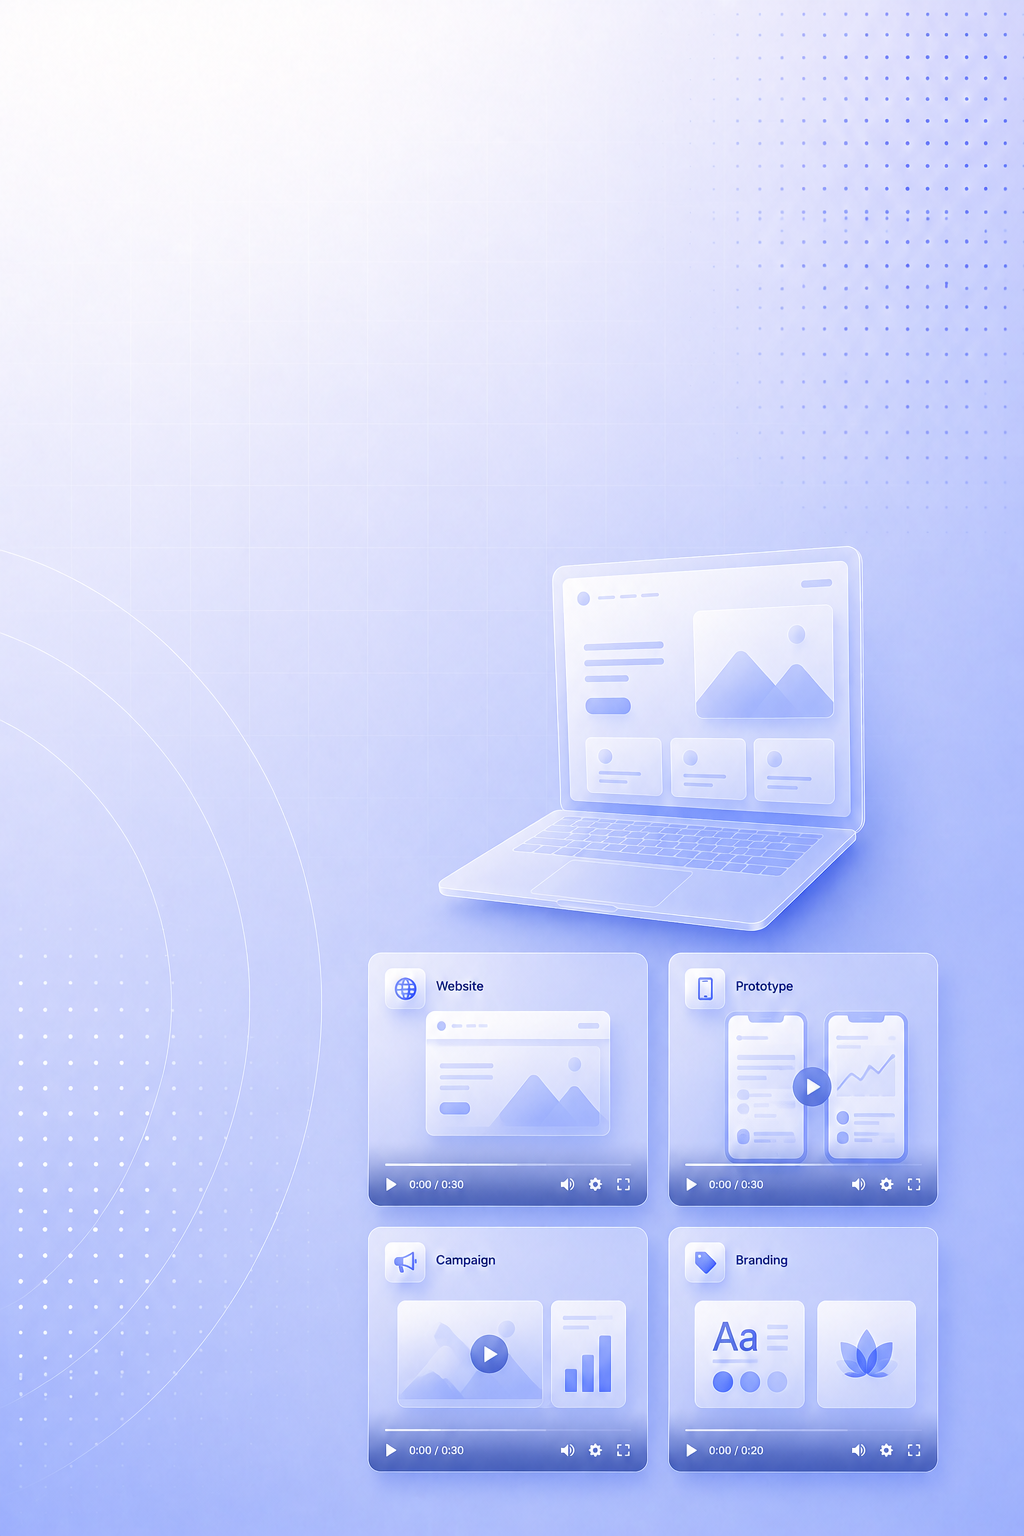
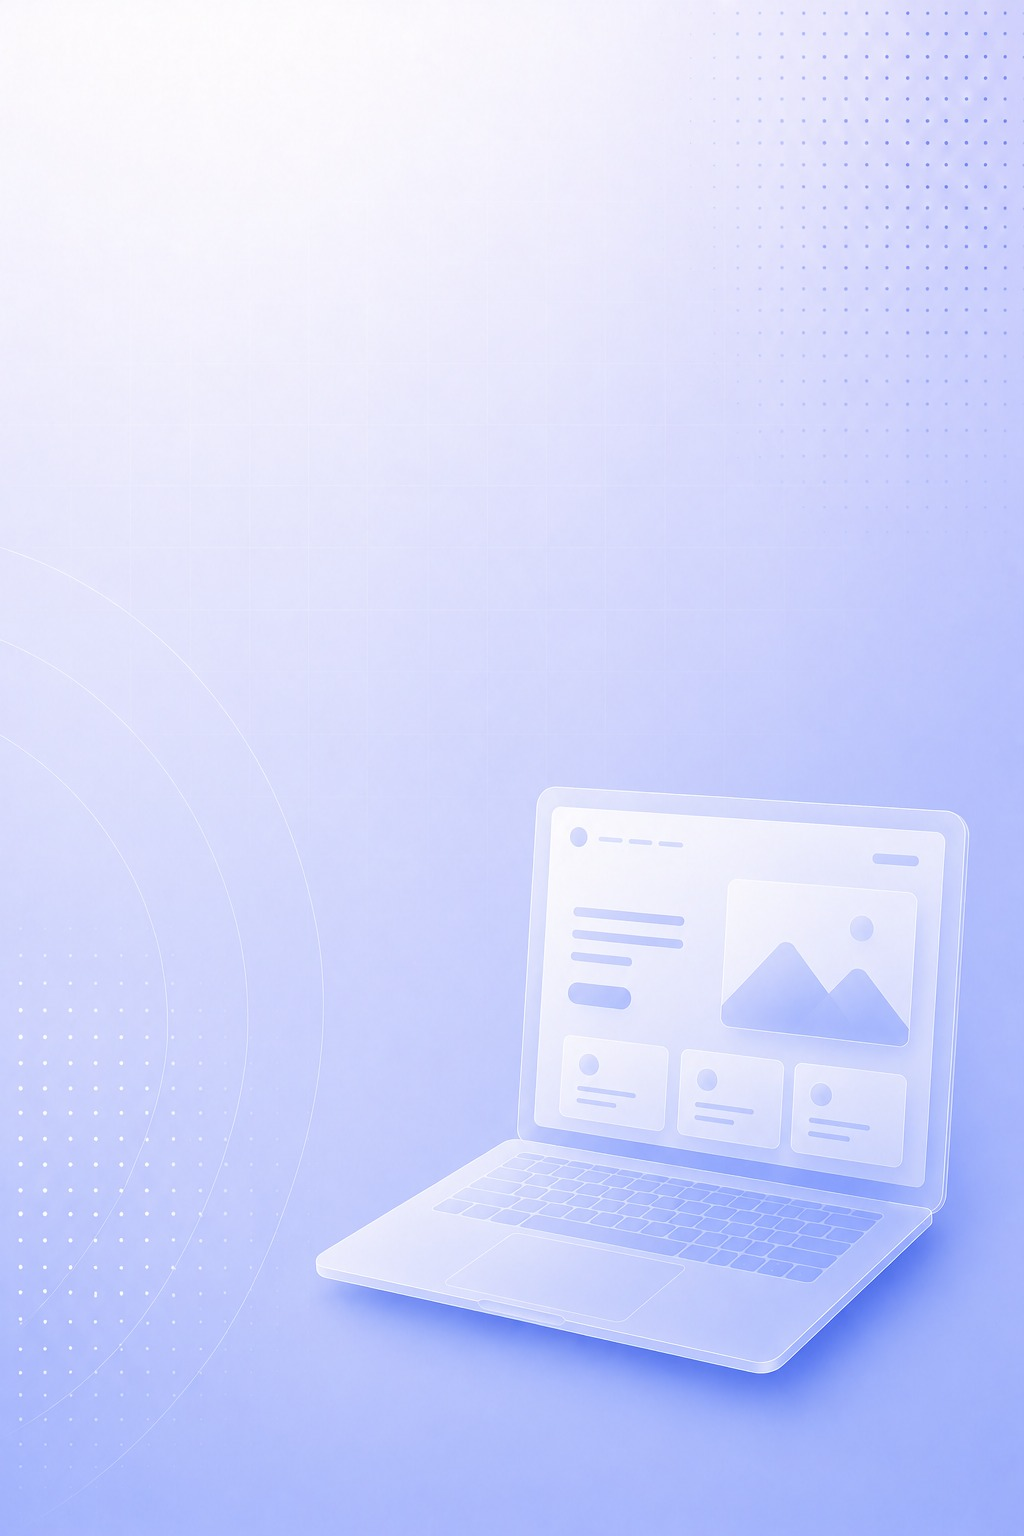
v 31

Changed region(s): [[0.3125, 0.3438, 0.9688, 0.9688]]

diff --git a/pages/Team/components/TeamMemberCard.tsx b/pages/Team/components/TeamMemberCard.tsx
@@ -34,10 +34,10 @@ const BLOCK_SIZE = {
 // block's edges without ever spilling outside the D. Tune per person if a
 // composition looks off; these don't affect the source images.
 const PERSON_POSITION: Record<string, { left: string; bottom: string; width: string; height: string }> = {
-  'Bindu Mohan': { left: '-11%', bottom: '5%', width: '100%', height: '270%' },
-  'Sneha Peri': { left: '-7%', bottom: '5%', width: '80%', height: '122%' },
-  'Yashas Niranjan': { left: '5%', bottom: '3%', width: '100%', height: '140%' },
-  'Sakshi Agarwal': { left: '-15%', bottom: '5%', width: '100%', height: '132%' },
+  'Bindu Mohan': { left: '-8%', bottom: '5%', width: '107%', height: '270%' },
+  'Sneha Peri': { left: '2%', bottom: '1%', width: '85%', height: '122%' },
+  'Yashas Niranjan': { left: '5%', bottom: '1%', width: '100%', height: '140%' },
+  'Sakshi Agarwal': { left: '-8%', bottom: '5%', width: '120%', height: '200%' },
 };
 const DEFAULT_PERSON_POSITION = { left: '9%', bottom: '-6%', width: '84%', height: '126%' };
 
@@ -137,7 +137,14 @@ const TeamMemberCard: React.FC<TeamMemberCardProps> = ({
               src={member.personImage}
               alt={`${member.name}, ${member.role}`}
               draggable={false}
-              className="absolute object-contain object-bottom select-none pointer-events-none transition-[filter] duration-[320ms]"
+              // max-w-none is load-bearing. Tailwind's preflight sets
+              // `img,video { max-width: 100% }`, which resolves against this
+              // image's containing block (the mask layer, i.e. the D block).
+              // There is no inline max-width to beat it, so any
+              // PERSON_POSITION width above 100% was silently clamped back
+              // down to 100% and widening a person did nothing on screen.
+              // Members at or below 100% were never affected either way.
+              className="absolute max-w-none object-contain object-bottom select-none pointer-events-none transition-[filter] duration-[320ms]"
               style={{
                 left: personPos.left,
                 bottom: personPos.bottom,
@@ -178,8 +185,14 @@ const TeamMemberCard: React.FC<TeamMemberCardProps> = ({
             exit={{ opacity: 0, scaleX: 0.82, x: panelSide === 'right' ? -16 : 16 }}
             transition={{ duration: 0.32, ease: [0.22, 1, 0.36, 1] }}
             style={{ transformOrigin: panelSide === 'right' ? 'left center' : 'right center' }}
-            className={`absolute top-0 w-[min(820px,calc(100vw_-_536px))] ${
-              panelSide === 'right' ? 'left-full ml-8' : 'right-full mr-8'
+            // z-50 keeps the panel above the card's own artwork, and the
+            // ::before strip bridges the 32px gap between card and panel.
+            // Without that bridge the gap belongs to the flex container, not
+            // to the card, so crossing it fired pointerleave on the card and
+            // closed the panel — then re-entering reopened it, which is what
+            // produced the flicker loop.
+            className={`absolute top-0 z-50 w-[min(820px,calc(100vw_-_536px))] before:absolute before:inset-y-0 before:w-8 before:content-[''] ${
+              panelSide === 'right' ? 'left-full ml-8 before:-left-8' : 'right-full mr-8 before:-right-8'
             }`}
             onClick={(e) => e.stopPropagation()}
           >

diff --git a/pages/Team/components/TeamShowcase.tsx b/pages/Team/components/TeamShowcase.tsx
@@ -49,13 +49,13 @@ const TeamShowcase: React.FC = () => {
             animate={{ opacity: 1, y: 0 }}
             transition={{ duration: 0.7, delay: 0.5 + index * 0.12, ease: [0.22, 1, 0.36, 1] }}
             className="relative md:w-auto"
-            // The open card's panel is wide and can visually overlap a
-            // neighboring card. Dropping the open card BELOW its resting
-            // siblings (instead of raising it above them) guarantees a
-            // neighbor's own card is always the topmost, hit-testable
-            // element over that shared area — so moving straight into it
-            // always reaches its pointer handlers, even mid-transition.
-            style={{ zIndex: isFocused ? 5 : 10 }}
+            // The open card's panel is wide and overlaps its neighbours, so
+            // the open card is raised ABOVE its resting siblings. That makes
+            // the panel both the topmost painted layer (neighbours can never
+            // show through it) and the topmost hit-testable one, so moving
+            // the cursor across the panel can never reach a neighbour's
+            // pointer handlers and switch the active member mid-move.
+            style={{ zIndex: isFocused ? 50 : 10 }}
           >
             <TeamMemberCard
               member={member}

diff --git a/pages/Team/components/InfoPanel.tsx b/pages/Team/components/InfoPanel.tsx
@@ -8,10 +8,14 @@ interface InfoPanelProps {
   onClose: () => void;
 }
 
+// The container only drives the child stagger; it deliberately animates no
+// opacity of its own. The wrapper in TeamMemberCard already owns the panel's
+// fade, and a second opacity animation stacked on top of it left the white
+// surface translucent for the whole entry, letting the cards behind show
+// through. Children still fade and rise in individually.
 const container = {
-  hidden: { opacity: 0 },
+  hidden: {},
   show: {
-    opacity: 1,
     transition: { staggerChildren: 0.08, delayChildren: 0.1 },
   },
 };
@@ -28,6 +32,9 @@ const InfoPanel: React.FC<InfoPanelProps> = ({ member, onClose }) => {
       initial="hidden"
       animate="show"
       exit="hidden"
+      // Explicitly opaque: the panel is a solid modal surface over the cards,
+      // so it must never inherit or animate a partial opacity.
+      style={{ backgroundColor: '#ffffff', opacity: 1 }}
       className="relative bg-white rounded-2xl md:rounded-3xl shadow-[0_20px_60px_-15px_rgba(0,32,191,0.25)] border border-[#0020BF]/10 p-6 md:p-7 text-left"
     >
       <button
